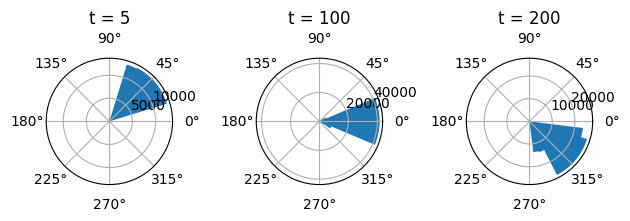
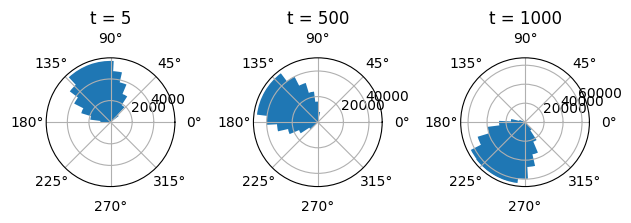
Clean up and document the new demo

diff --git a/src/agent_demo.cpp b/src/agent_demo.cpp
@@ -17,17 +17,16 @@ int main(int argc, char** argv)
 height = 1000
 width = 1000
 scale = 10.0
-fps = 60
+fps = 100
 
 [[agents]]
 name = "tom"
-type = "vfh"
-grid = { width = 1000, height = 1000 }
-sensor = { count = 8, range = 5.0 }
-color = "red"
+type = "patrol"
+waypoint = { x = 10.0, y = 0.0 }
+speed = 1.0
 shape = "circle"
 radius = 2.0
-x = 5.0
+x = -10.0
 y = 0.0
 theta = 0.0
 
@@ -35,15 +34,15 @@ theta = 0.0
 name = "jerry"
 type = "vfh"
 grid = { width = 1000, height = 1000 }
-sensor = { count = 8, range = 5.0 }
-color = "red"
+sensor = { count = 36, range = 50.0 }
+goal = { x = 0.0, y = 10.0 }
+valley_threshold = 10000
 shape = "box"
 width = 4.0
 height = 4.0
-x = 5.01
-y = 10.0
-theta = 0.25
-    )";
+x = 0.0
+y = -10.0
+theta = 0.0)";
 
     toml::table config;
 
@@ -122,6 +121,8 @@ theta = 0.25
         int txt_width = MeasureText(txt, 36);
         DrawText(txt, (width - txt_width) / 2.0, 0, 36, GRAY);
 
+        // TODO: replace with the goal in the config file
+        DrawCircle(width / 2, height / 2.0 - 10 * scale, 0.5 * scale, GREEN);
 
         for (auto it = agents.cbegin(); it != agents.cend(); ++it) {
             const auto body = (*it)->get_body();
@@ -142,7 +143,7 @@ theta = 0.25
                 Rectangle rectangle{screen_pos.x, screen_pos.y, half_width * 2.0f * scale, half_height * 2.0f * scale};
 
                 DrawRectanglePro(rectangle, {half_width * scale, half_height * scale}, rot, BLUE);
-                DrawRectangleRec({(pos.x - half_width) * scale + width / 2.0f, (-pos.y - half_height) * scale + height / 2.0f, half_width * 2.0f * scale, half_height * 2.0f * scale}, RED);
+                //DrawRectangleRec({(pos.x - half_width) * scale + width / 2.0f, (-pos.y - half_height) * scale + height / 2.0f, half_width * 2.0f * scale, half_height * 2.0f * scale}, RED);
                 //std::cout << "box_pos: " << pos.x << ", " << pos.y << std::endl;
                 //std::cout << "box_rot: " << body->GetAngle() << std::endl;
             }

diff --git a/README.md b/README.md
@@ -33,6 +33,15 @@ VFH (and other older approach(es)) is comparably much easier to implement and re
     * SLAM
     * ?
 
+## The story so far
+A gif of an 'agent' (the blue square) navigating to a goal (green dot) while avoiding a patrolling obstacle (white circle) running in simulation is shown below:
+
+![use your imagination](/doc/demo.gif)
+
+There are many things happening under the hood at this point, but perhaps the most interesting is the first part of the VFH algorithm: transforming the Histogram Grid into polar space.  A plot of the polar histogram at various time steps (from the simulation above) is shown below:
+
+![use your imagination](/doc/plot.png)
+
 ## What's the roadmap looking like?
 This is a _very_ coarse estimation of the roadmap and is subject to change:
 
@@ -43,25 +52,18 @@ This is a _very_ coarse estimation of the roadmap and is subject to change:
 * [ ] Implement VFH
     * [x] perform the first data transformation to a polar histogram grid
     * [ ] perform the second transformation to produce a steering output
-* [ ] Create an 'agent' that
+        * [x] steering angle
+        * [ ] steering speed
+* [x] Create an 'agent' that
     * [x] moves in the world
     * [x] has a perception 'sensor'
     * [x] updates a histogram grid
-    * [ ] utilizes VFH to control its motion
-    * [ ] can be visualized
-* [ ] Create a configurable simulation environment (with obstacles) in which to place agents
+    * [x] utilizes VFH to control its motion
+    * [x] can be visualized
+* [x] Create a configurable simulation environment (with obstacles) in which to place agents
 * [x] Add logging functionality so that the results of a simulation can be replayed and analyzed after the fact
 * [ ] Create compelling visualizations of the system as a whole
 
 Demos may be created along the way to show off bits of code along the way.
 
 Note that the underlying functionality of all the code used in the above should be unit tested using Doctest, with the exception of visualizations and demos (which can be 'tested' visually).
-
-## The story so far
-A gif of an 'agent' (the red square) moving relative to a patrolling obstacle (white circle) running in simulation is shown below:
-
-![use your imagination](/doc/demo.gif)
-
-There are many things happening under the hood at this point, but perhaps the most interesting is the first part of the VFH algorithm: transforming the Histogram Grid into polar space.  A plot of the polar histogram at various time steps is shown below:
-
-![use your imagination](/doc/plot.png)
